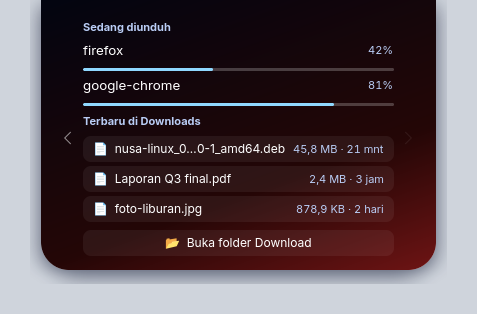
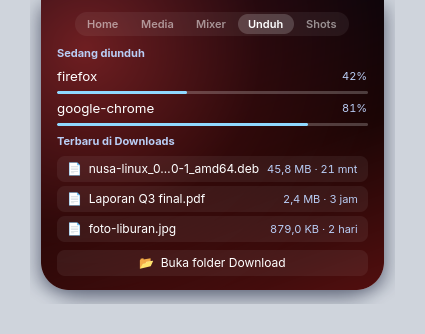
Release 0.5.1
Prefer native-script lyrics from lrclib when an exact match is pre-romanized, and refresh README text and screenshots for the 0.5.0 UI.

diff --git a/src/lyrics.rs b/src/lyrics.rs
@@ -133,39 +133,62 @@ pub(crate) fn romanize_cyrillic(s: &str) -> String {
         .collect()
 }
 
-/// Synced lyrics for a track: disk cache first, then lrclib's exact match, then its search
-/// (which catches titles like "LOSER - KR Ver." that don't match exactly).
+/// Synced lyrics for a track: disk cache first, then lrclib's search and exact match,
+/// preferring native script (Hangul/kana/Han/Cyrillic) over pre-romanized uploads.
 pub(crate) fn fetch_lyrics(title: &str, artist: &str, duration_s: i64) -> Vec<(i64, String)> {
     let key: String = format!("{artist} - {title}").chars().map(|c| if c == '/' { '_' } else { c }).collect();
     let cache = glib::user_cache_dir().join("nusa/lyrics").join(format!("{key}.lrc"));
     if let Ok(lrc) = std::fs::read_to_string(&cache) {
         return parse_lrc(&lrc);
     }
-    let call = |path: &str, with_duration: bool| -> Option<serde_json::Value> {
-        let mut req = ureq::get(format!("https://lrclib.net/api/{path}"))
-            .header("User-Agent", "nusa-linux (personal use)")
+    let get_json = |req: ureq::RequestBuilder<ureq::typestate::WithoutBody>| -> Option<serde_json::Value> {
+        serde_json::from_str(&req.header("User-Agent", "nusa-linux (personal use)").call().ok()?.body_mut().read_to_string().ok()?).ok()
+    };
+    let exact = || {
+        let mut req = ureq::get("https://lrclib.net/api/get")
             .query("track_name", title)
             .query("artist_name", artist);
-        if with_duration && duration_s > 0 {
+        if duration_s > 0 {
             req = req.query("duration", duration_s.to_string());
         }
-        serde_json::from_str(&req.call().ok()?.body_mut().read_to_string().ok()?).ok()
+        get_json(req)?["syncedLyrics"].as_str().map(str::to_owned)
     };
-    let exact = call("get", true).and_then(|j| j["syncedLyrics"].as_str().map(str::to_owned));
-    let lrc = exact.or_else(|| {
-        // Closest duration among synced search results.
-        let results = call("search", false)?;
-        results
-            .as_array()?
-            .iter()
-            .filter(|r| r["syncedLyrics"].is_string())
-            .min_by_key(|r| (r["duration"].as_f64().unwrap_or(0.0) as i64 - duration_s).abs())
-            .and_then(|r| r["syncedLyrics"].as_str().map(str::to_owned))
-    });
+    let searched = get_json(ureq::get("https://lrclib.net/api/search").query("q", format!("{artist} {title}")))
+        .or_else(|| {
+            get_json(
+                ureq::get("https://lrclib.net/api/search")
+                    .query("track_name", title)
+                    .query("artist_name", artist),
+            )
+        })
+        .and_then(|v| pick_best_lrc(&v, duration_s));
+    let lrc = match (exact(), searched) {
+        (Some(e), Some(s)) if !has_native_script(&e) && has_native_script(&s) => Some(s),
+        (Some(e), _) => Some(e),
+        (None, s) => s,
+    };
     let Some(lrc) = lrc else { return vec![] };
     // Only successes are cached, so a song lrclib doesn't know yet is retried next time.
     let _ = std::fs::create_dir_all(cache.parent().unwrap()).and_then(|_| std::fs::write(&cache, &lrc));
     parse_lrc(&lrc)
+}
+
+fn has_native_script(s: &str) -> bool {
+    s.chars()
+        .any(|c| is_hangul(c) || is_han(c) || ('\u{3040}'..='\u{30ff}').contains(&c) || ('\u{0400}'..='\u{04ff}').contains(&c))
+}
+
+fn pick_best_lrc(results: &serde_json::Value, duration_s: i64) -> Option<String> {
+    results
+        .as_array()?
+        .iter()
+        .filter_map(|r| Some((r["syncedLyrics"].as_str()?, r["duration"].as_f64().unwrap_or(0.0) as i64)))
+        .min_by_key(|(lrc, dur)| {
+            let diff = if duration_s > 0 { (dur - duration_s).abs() } else { 0 };
+            // Among tracks within 3 s of the target duration, prefer native script over romanized Latin.
+            (diff > 3, !has_native_script(lrc), diff)
+        })
+        .map(|(lrc, _)| lrc.to_owned())
 }
 
 /// "[mm:ss.xx] text" lines into (ms, text), sorted.
@@ -199,6 +222,11 @@ pub(crate) fn lrc() {
     assert_eq!(current_line(&l, 12500).as_deref(), Some("second"));
     assert_eq!(current_line(&l, 30000).as_deref(), Some("second"));
     assert_eq!(current_index(&l, 60000), Some(2));
+    let candidates = serde_json::json!([
+        {"duration": 225.0, "syncedLyrics": "[00:13.98]yeongwonhan geon jeoldae eopseo"},
+        {"duration": 225.5, "syncedLyrics": "[00:13.98] 영원한 건 절대 없어"}
+    ]);
+    assert_eq!(pick_best_lrc(&candidates, 225).as_deref(), Some("[00:13.98] 영원한 건 절대 없어"));
 }
 
 #[test]

diff --git a/README.md b/README.md
@@ -4,7 +4,7 @@
 
 Notch kecil di tengah atas layar untuk desktop Linux berbasis Wayland. Terinspirasi dari [Nusa for Windows](https://rama2555.github.io/nusa/), ditulis ulang dari nol dengan Rust dan GTK4. Untuk pemakaian pribadi.
 
-Hover notch untuk membukanya, geser kursor menjauh untuk menutupnya. Notch yang terbuka punya lima halaman, pindah dengan panah ‹ ›: Home (jam, tanggal, statistik, clipboard), Media (player), Mixer (volume per aplikasi), Download, dan Screenshots. Saat dibuka, notch langsung ke Media kalau ada lagu, ke Download kalau ada yang sedang diunduh, dan ke Home kalau tidak keduanya.
+Hover notch untuk membukanya, geser kursor menjauh untuk menutupnya. Notch yang terbuka punya lima halaman dengan tab di tepi atas (klik atau scroll untuk pindah): Home (jam, tanggal, bar CPU/RAM/suhu, timer cepat, clipboard), Media (player), Mixer (volume per aplikasi), Unduh (Download), dan Shots (Screenshots). Saat dibuka, notch langsung ke Media kalau ada lagu, ke Unduh kalau ada yang sedang diunduh, dan ke Home kalau tidak keduanya.
 
 <p align="center">
   <img src="docs/screenshots/open-music.png" width="391" alt="Notch terbuka saat musik diputar: cover, judul, seek bar, tombol kontrol, dan baris lirik">
@@ -14,14 +14,14 @@ Hover notch untuk membukanya, geser kursor menjauh untuk menutupnya. Notch yang 
 
 <table>
   <tr>
-    <td align="center"><img src="docs/screenshots/closed-music.png" width="297" alt="Notch tertutup saat musik diputar"><br>Tertutup saat musik diputar: lirik dan romanisasinya</td>
-    <td align="center"><img src="docs/screenshots/idle.png" width="260" alt="Tampilan idle dengan jam, tanggal, dan statistik"><br>Idle: jam, tanggal, CPU/RAM/suhu</td>
+    <td align="center"><img src="docs/screenshots/closed-music.png" width="297" alt="Notch tertutup saat musik diputar"><br>Tertutup saat musik diputar: lirik, romanisasi, dan garis progres lagu</td>
+    <td align="center"><img src="docs/screenshots/idle.png" width="260" alt="Halaman Home dengan jam, tanggal, statistik, dan timer"><br>Home: jam, tanggal, bar CPU/RAM/suhu, dan timer cepat</td>
   </tr>
   <tr>
-    <td align="center" colspan="2"><img src="docs/screenshots/lyrics.png" width="600" alt="Panel lirik penuh dengan romanisasi"><br>Panel lirik penuh. Baris yang sedang dinyanyikan menyala, klik baris lain untuk lompat.</td>
+    <td align="center" colspan="2"><img src="docs/screenshots/lyrics.png" width="600" alt="Panel lirik penuh dengan romanisasi"><br>Panel lirik penuh. Baris yang sedang dinyanyikan disorot lebih besar, klik baris lain untuk lompat.</td>
   </tr>
   <tr>
-    <td align="center"><img src="docs/screenshots/clipboard.png" width="420" alt="Panel clipboard"><br>Clipboard, terbuka hanya setelah tombolnya diklik</td>
+    <td align="center"><img src="docs/screenshots/clipboard.png" width="420" alt="Panel clipboard"><br>Clipboard dengan tombol kode QR, terbuka setelah tombolnya diklik</td>
     <td align="center"><img src="docs/screenshots/mascot.png" width="240" alt="Maskot mata"><br>Maskot muncul saat kamu idle</td>
   </tr>
   <tr>
@@ -44,17 +44,17 @@ Warna notch ikut cover lagu saat musik diputar, dan ikut wallpaper saat idle. Se
 
 ## Fitur
 
-- Lagu yang sedang diputar dari player MPRIS mana pun (Spotify, Strawberry, browser, mpv): cover, judul, artis, prev/play/next, seek bar
-- Warna gradien notch mengikuti warna cover lagu, dan saat idle mengikuti warna wallpaper Plasma
-- Lirik tersinkron dari [lrclib.net](https://lrclib.net), satu baris di bawah judul, atau panel lirik penuh (klik baris untuk lompat)
+- Lagu yang sedang diputar dari player MPRIS mana pun (Spotify, Strawberry, browser, mpv): cover, judul, artis, prev/play/next, seek bar, dan garis tipis progres lagu saat notch tertutup
+- Warna gradien dan pendaran radial mengikuti warna cover lagu, dan saat idle mengikuti warna wallpaper Plasma
+- Lirik tersinkron dari [lrclib.net](https://lrclib.net), satu baris di bawah player (atau di bawah judul saat notch tertutup), atau panel lirik penuh dengan sorotan bertingkat (klik baris untuk lompat)
 - Romanisasi lirik untuk Korea, Jepang (termasuk kanji), Mandarin (pinyin), dan Cyrillic
 - Popup charger dicolok/dicabut, Wi-Fi tersambung/putus, headphone Bluetooth tersambung beserta baterainya
 - Titik oranye saat mikrofon dipakai, hijau saat kamera menyala, merah saat layar sedang di-share
 - Progres download (browser dan aplikasi lain yang memakai Unity LauncherEntry): bar tipis di notch, lalu popup saat selesai. Halaman Download menampilkan semua download yang berjalan dan 4 file terbaru di folder Download (klik untuk membuka).
 - Notifikasi HP lewat KDE Connect, termasuk telepon masuk
 - Maskot mata saat idle: muncul setelah 30 detik, tertidur setelah 3 menit, tersenyum saat kamu kembali. Kalau musik sedang jalan, maskot tersenyum dan mengangguk-angguk. Kalau di-pause, matanya mengantuk.
-- Saat tidak ada lagu: jam besar, tanggal (bahasa Indonesia), dan CPU/RAM/suhu
-- Tombol clipboard di tampilan idle: membuka 3 isi clipboard terakhir (klik untuk copy ulang). Panel tertutup lagi setiap notch ditutup. Tombol QR di tiap item menampilkan isinya sebagai kode QR untuk dipindai HP (maksimal 500 karakter).
+- Halaman Home: jam besar, tanggal (bahasa Indonesia atau Inggris), bar CPU/RAM/suhu (berubah oranye saat beban atau suhu tinggi), dan timer hitung mundur cepat (tombol `−`/`+`, scroll, atau ketik durasi seperti `10`, `45s`, `1:30` lalu Enter; tampil di notch tertutup saat berjalan dan memunculkan popup saat selesai)
+- Tombol clipboard di halaman Home: membuka 3 isi clipboard terakhir (klik untuk copy ulang). Panel tertutup lagi setiap notch ditutup. Tombol QR di tiap item menampilkan isinya sebagai kode QR untuk dipindai HP (maksimal 500 karakter).
 - Halaman Screenshots: 5 screenshot terbaru dari `~/Pictures/Screenshots`. Seret thumbnail ke aplikasi lain, klik untuk membuka, × untuk menyembunyikan dari daftar (file tidak dihapus). Setiap screenshot baru memunculkan thumbnail sebentar di notch.
 - Halaman Mixer: volume output dan slider plus tombol bisu untuk setiap aplikasi yang sedang memutar suara
 - Kalau ada lebih dari satu player (misalnya Strawberry dan browser), tombol `⇄` di halaman Media memilih player yang dikontrol. Pilihan itu bertahan sampai player-nya ditutup.
